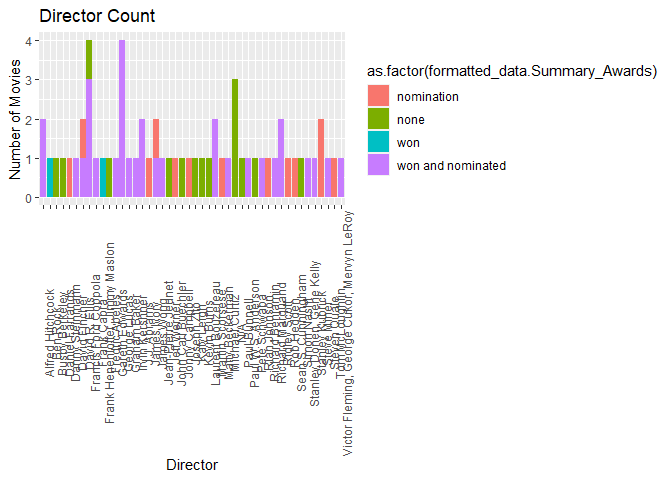
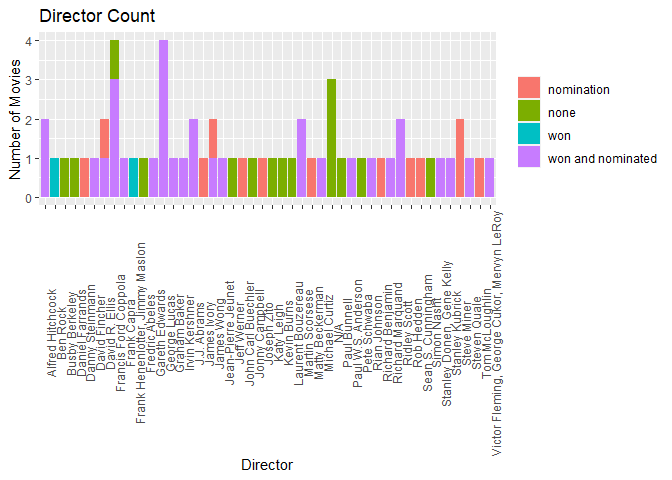
11:04_6_25_2022

Changed region(s): [[0.0625, 0.0625, 1.0, 0.9375], [0.3438, 0.9375, 0.4375, 1.0], [0.25, 0.9375, 0.3125, 1.0]]

diff --git a/README.md b/README.md
@@ -749,7 +749,8 @@ D<-unique(C)
 g<-ggplot(data = D, aes(x = formatted_data.Director ))
 g + geom_bar(aes(fill = as.factor(formatted_data.Summary_Awards))) +
   theme(axis.text.x = element_text(angle = 90)) +
-  labs(x = "Director", title = "Director Count", y="Number of Movies")
+  labs(x = "Director", title = "Director Count", y="Number of Movies") +
+  scale_fill_discrete(name = NULL)
 ```
 
 ![](README_files/figure-gfm/10_54_6_25_2022-1.png)<!-- -->
